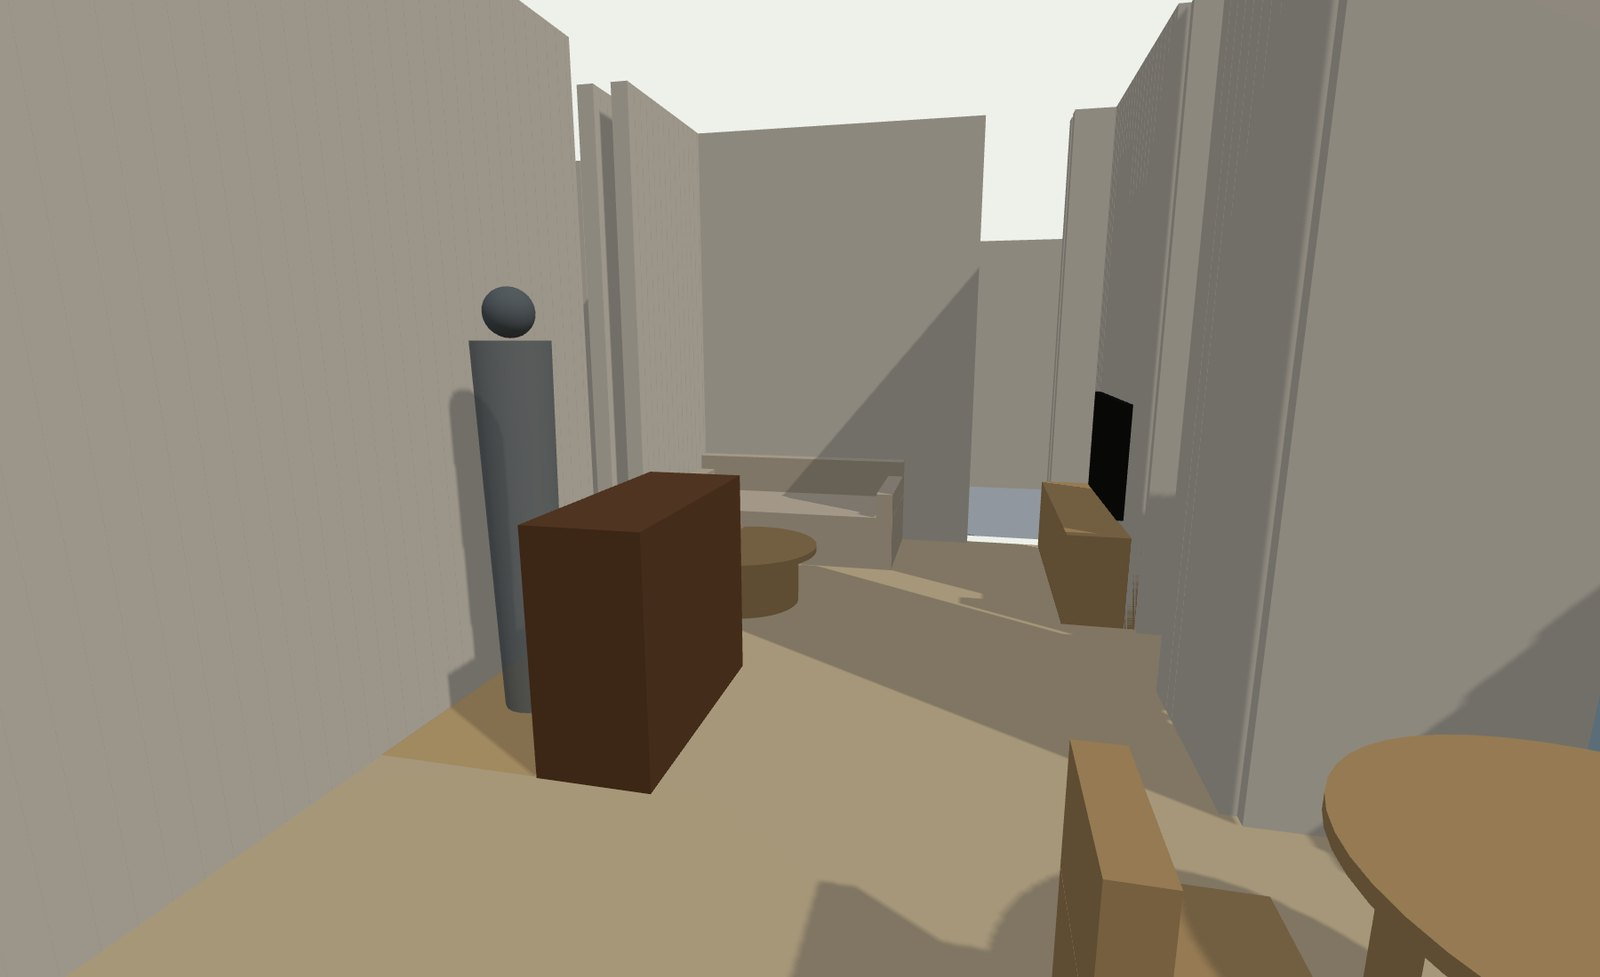
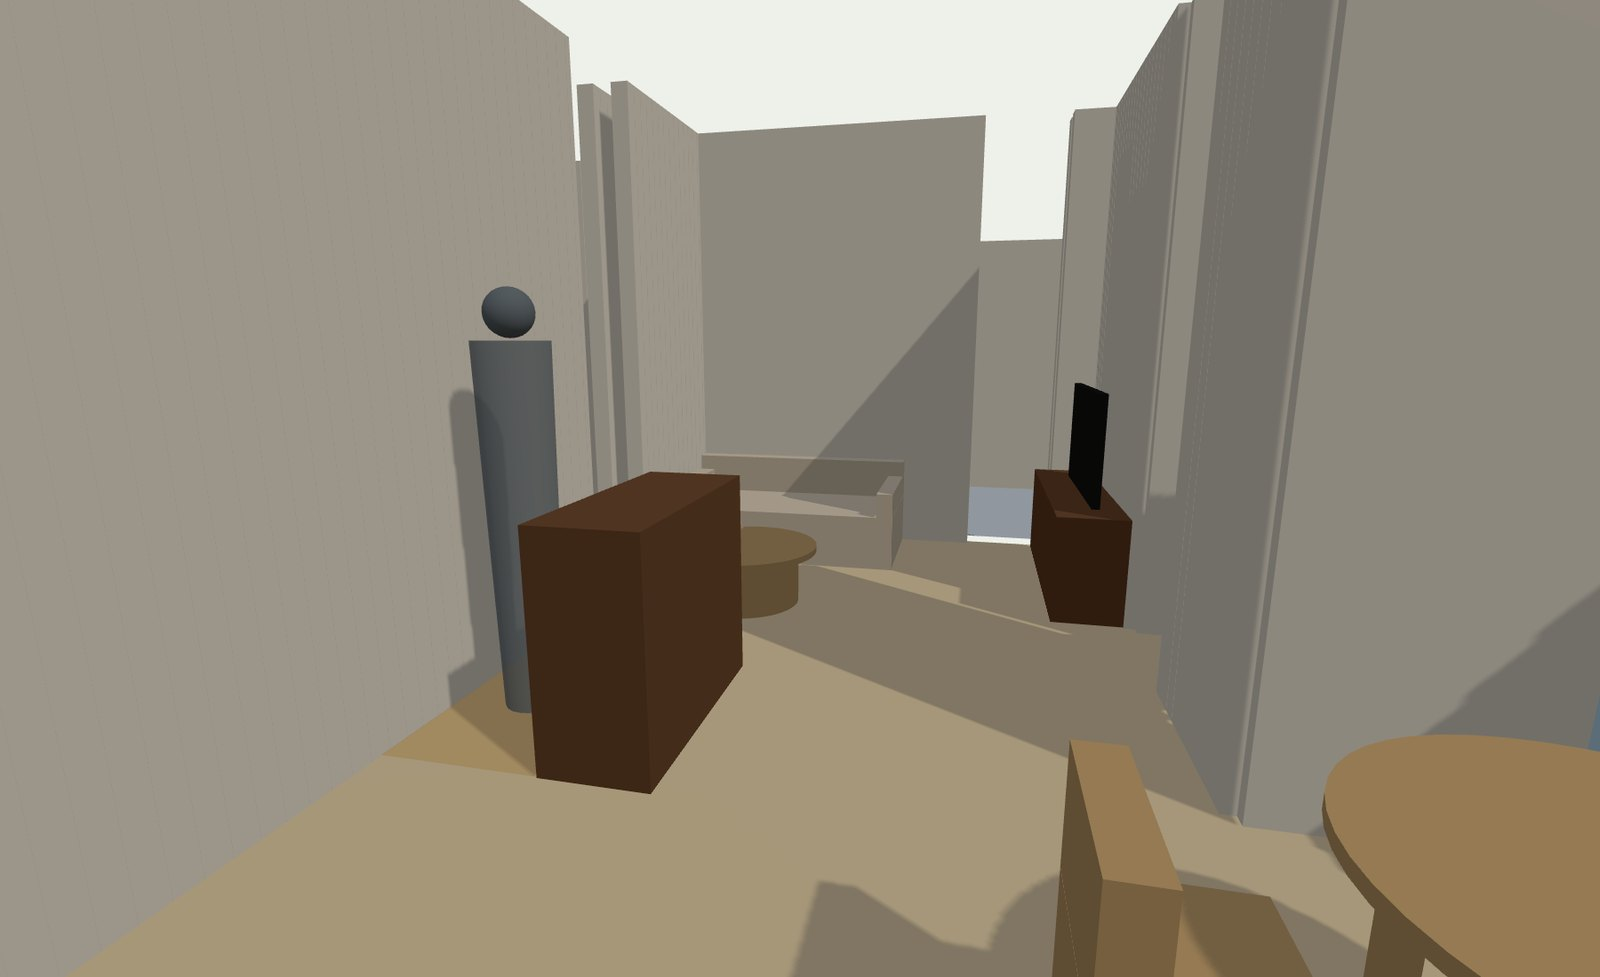
Sets page: walnut RÅDMANSÖ TV bench, chairs spread across rooms, whole-flat plan
Claude-Session: https://claude.ai/code/session_01C1TKT721Tw7hQtoRJTxEyD

Changed region(s): [[0.625, 0.3992, 0.7188, 0.6448]]

diff --git a/sets/index.html b/sets/index.html
@@ -246,16 +246,17 @@
   <div class="card">
     <img src="img/ikea_chair.jpg" alt="STOCKHOLM 2025 chair in oak with rattan back and leather seat">
     <div class="b"><span class="cat">Chairs</span><h3>STOCKHOLM 2025 chair, oak, rattan back, leather seat</h3>
-    <span class="price">€169 each · €338 for two, €676 for four</span><span class="meta">47 × 45 × 80 cm</span>
-    <p class="note">Full-grain leather and solid oak. The €189 oak/leather and €229 dark brown versions are the same chair in other finishes.</p>
+    <span class="price">€169 each · 3 chairs €507</span><span class="meta">47 × 45 × 80 cm</span>
+    <p class="note">Two at the kitchen table, one at the desk in the guest room. Full-grain leather and solid oak. The €229 dark brown version ties in better with the walnut benches.</p>
     <a class="btn" href="https://www.ikea.com/pt/en/p/stockholm-2025-chair-oak-rattan-60590142/">Open on ikea.pt</a></div>
   </div>
 
   <div class="card">
-    <img src="img/ikea_tv.jpg" alt="STOCKHOLM 2025 oak TV bench with sliding doors">
-    <div class="b"><span class="cat">TV bench</span><h3>STOCKHOLM 2025 TV bench with sliding doors, oak veneer</h3>
-    <span class="price">€349</span><span class="meta">179 × 42 × 56 cm · TV up to 40 kg</span>
-    <a class="btn" href="https://www.ikea.com/pt/en/p/stockholm-2025-tv-bench-with-sliding-doors-oak-veneer-40586508/">Open on ikea.pt</a></div>
+    <img src="img/ikea_tv_radmanso.jpg" alt="RÅDMANSÖ TV bench in walnut effect">
+    <div class="b"><span class="cat">TV bench</span><h3>RÅDMANSÖ TV bench, walnut effect</h3>
+    <span class="price">€199</span><span class="meta">176.4 × 48.2 × 66.1 cm · TV up to 70″, 30 kg</span>
+    <p class="note">Same series and finish as the DJ bench, with the same black legs and brass knobs. Fits the 185 cm south wall with 9 cm spare. €150 less than the oak one it replaces.</p>
+    <a class="btn" href="https://www.ikea.com/pt/en/p/radmansoe-tv-bench-brown-walnut-effect-40597818/">Open on ikea.pt</a></div>
   </div>
 
   <div class="card">
@@ -264,6 +265,14 @@
     <span class="price">€199</span><span class="meta">118.3 × 48.6 × 103.1 cm · 12.4 cm clear under it</span>
     <p class="note">Fits my 95 to 120 cm brief at 103. Two decks plus a mixer need about 100 cm, so it is just wide enough. Chipboard top; keep it under 15 kg.</p>
     <a class="btn" href="https://www.ikea.com/pt/pt/p/radmansoe-armario-castanho-efeito-nogueira-80597755/">Open on ikea.pt</a></div>
+  </div>
+
+  <div class="card">
+    <img src="img/ikea_askholmen.jpg" alt="ASKHOLMEN folding outdoor chair in dark brown acacia">
+    <div class="b"><span class="cat">Balcony chairs</span><h3>ASKHOLMEN folding chair, dark brown acacia</h3>
+    <span class="price">€30 each · 2 chairs €60</span><span class="meta">36 × 49 × 87 cm</span>
+    <p class="note">One on each bedroom balcony for morning coffee. They fold flat, so they come in to the table on the few nights with four at dinner.</p>
+    <a class="btn" href="https://www.ikea.com/pt/en/p/askholmen-chair-outdoor-foldable-dark-brown-20557502/">Open on ikea.pt</a></div>
   </div>
 
   <div class="card">
@@ -296,14 +305,15 @@
   </div>
 
 </div>
-<p class="total">Indoor: €999 + €249 + €299 + €399 + €338 + €349 + €199 = €2,832. Terrace: €290 + €79 + €119 + €100 = €588. <strong>Total €3,420</strong> before delivery, with two dining chairs and the DJ bench. Four chairs: €3,758.</p>
+<p class="total">Indoor: €999 + €249 + €299 + €399 + €507 (3 chairs) + €199 TV bench + €199 DJ bench = €2,851. Terrace and balconies: €290 + €79 + €119 + €100 + €60 = €648. <strong>Total €3,499</strong> before delivery. Seats for dinner: 3 STOCKHOLM chairs plus any of the 4 outdoor chairs.</p>
 
 <h2>Does it fit? The flat at true scale</h2>
 <p class="sub">Geometry from the architects' 1:100 vector drawing (±5 cm, confirmed with a tape measure on site). Every item is drawn at its listed size; orange dashed items are sizes the seller did not state. Layout follows my DJ-booth plan: sofa on the east wall, DJ bench out from the corridor wall so I face the room, TV on the south wall, table in the kitchen leg.</p>
 <div class="plans">
   <figure><img src="img/plan/plan_living_empty.jpg" alt="2D plan of living, kitchen and terrace, empty"><figcaption>2D, as drawn. Living and kitchen 29.7 m², terrace 17.3 m².</figcaption></figure>
   <figure><img src="img/plan/3d_empty_sw.jpg" alt="3D dollhouse view, empty"><figcaption>3D from the street side, walls cut at 1 m. Roof ridge runs north to south at x = 10.9 m, 4.2 m high; it drops to 2.2 m at the terrace glass.</figcaption></figure>
-  <figure><img src="img/plan/plan_living_ikea.jpg" alt="2D plan with the IKEA set"><figcaption>Set 2, IKEA. Sofa 178 on the 340 wall leaves the bedroom 3 door clear. Coffee table 37 cm from the sofa, 53 cm from the DJ bench. Table Ø115 with chairs north and south, 60 cm to the kitchen run.</figcaption></figure>
+  <figure><img src="img/plan/plan_living_ikea.jpg" alt="2D plan with the IKEA set"><figcaption>Set 2, IKEA. Sofa 178 on the 340 wall leaves the bedroom 3 door clear. Coffee table 37 cm from the sofa, 53 cm from the DJ bench. Table Ø115 set for two, chairs north and south, 60 cm to the kitchen run.</figcaption></figure>
+  <figure><img src="img/plan/plan_full_ikea.jpg" alt="2D plan of the whole flat with the IKEA set and chairs spread across rooms"><figcaption>Set 2, whole flat. Two chairs at the table, one at the guest desk, one on each balcony, two on the terrace. The walnut TV bench leaves 107 cm between it and the sofa end on the way to bedroom 3.</figcaption></figure>
   <figure><img src="img/plan/3d_ikea_sw.jpg" alt="3D view with the IKEA set"><figcaption>Set 2 in 3D. The grey figure is me, 193 cm, at the DJ bench.</figcaption></figure>
   <figure><img src="img/plan/3d_ikea_inside.jpg" alt="Eye-level view from the terrace glass with the IKEA set"><figcaption>Set 2 from the terrace door at eye level. Massing only, no textures.</figcaption></figure>
   <figure><img src="img/plan/plan_living_olx.jpg" alt="2D plan with the OLX set"><figcaption>Set 1, OLX. Travertine turned long side along the sofa: 60 cm to the sofa, 62 cm to the DJ bench. Four chairs round the table; the west chair sits 20 cm from the fridge door, so use three day to day.</figcaption></figure>
@@ -319,7 +329,7 @@
 
 <h2>How the two sets compare</h2>
 <ul>
-  <li>Price: €2,304 against €3,420 (IKEA includes the €199 DJ bench). Drop the travertine for the oak table and OLX is €1,634.</li>
+  <li>Price: €2,304 against €3,499 (IKEA includes the DJ bench, the matching TV bench and the balcony chairs). Drop the travertine for the oak table and OLX is €1,634.</li>
   <li>Effort: IKEA delivers to the door in one drop. The OLX set is eight sellers, all in Lisbon or Oeiras.</li>
   <li>Resale: neither holds value. The HAY CPH30 is the only item here that resells for what it cost.</li>
   <li>Look: the OLX set is closer to the reference look (bouclé, stone, bentwood). The IKEA set is more uniform and more oak.</li>
